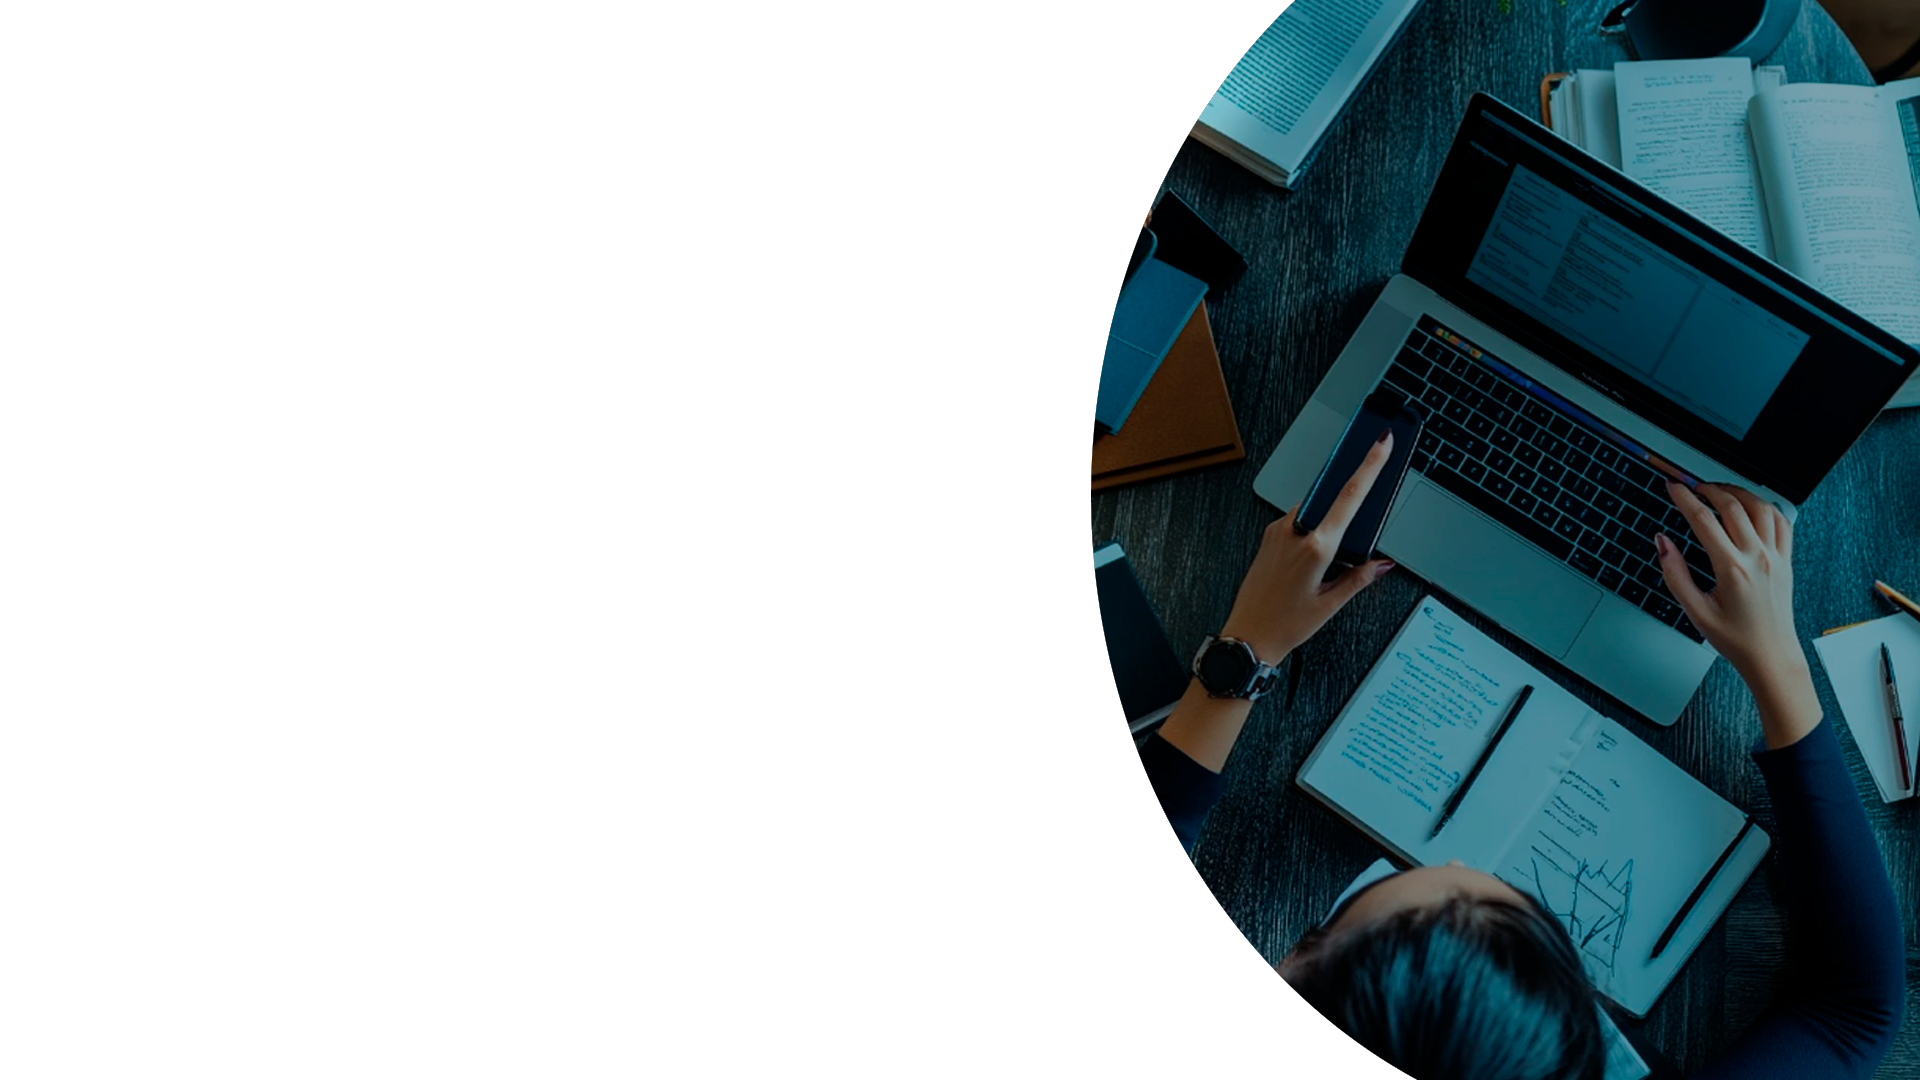
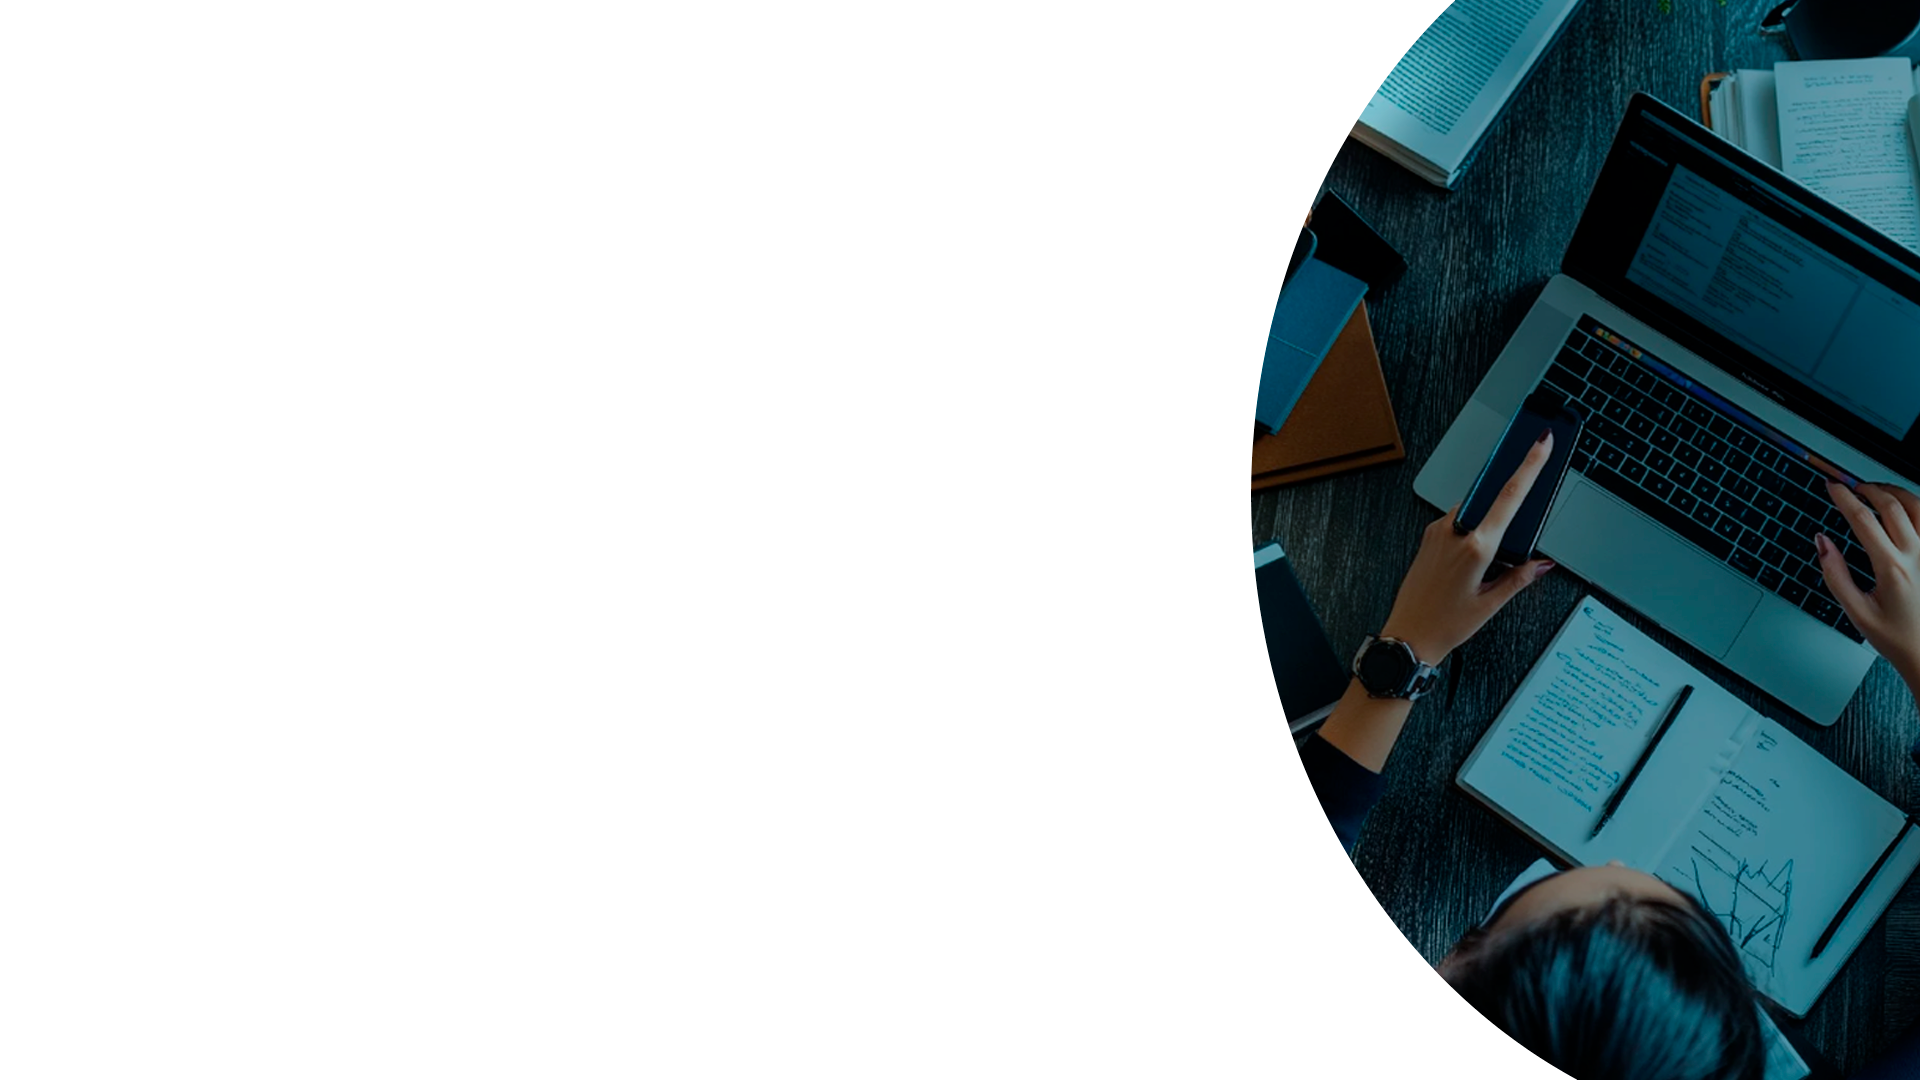
Add files via upload

diff --git a/css/style.css b/css/style.css
@@ -304,7 +304,7 @@ section {
     flex-direction: column;
     align-items: center;
     margin-top: 75px;
-    background-image: url("../img/contact-2-bg.png");
+    background-image: url("../img/contact-bg.png");
     background-position: center;
     background-size: cover;
 }
